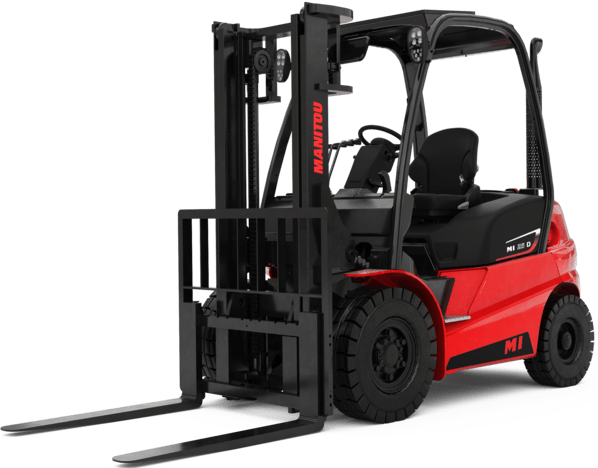
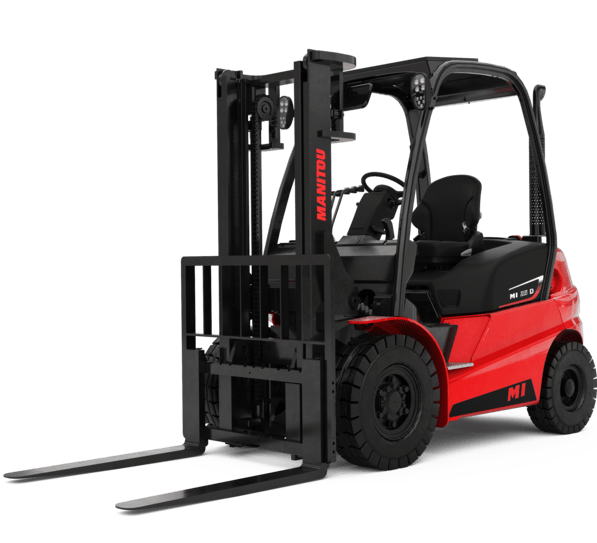
cards fix

Changed region(s): [[0.0, 0.0, 1.0, 1.0]]

diff --git a/src/Productos/productos.jsx b/src/Productos/productos.jsx
@@ -192,12 +192,12 @@ const Productos = () => {
             <StyledWrapper>
               <div className="card">
                 {/* Imágenes */}
-                <div className="w-full h-full">
+                <div className="w-full h-full flex flex-col items-center justify-center">
                   {imagenesPorMaquina[maquina.id]?.length > 0 ? (
                     <img
                       src={`/api/${imagenesPorMaquina[maquina.id][0]}`}
                       alt={`Imagen de ${maquina.modelo}`}
-                      className="h-full max-h-auto w-full"
+                      className="h-full max-h-[250px] max-w-[240px] p-2"
                     />
                   ) : (
                     <p className="text-gray-500 text-sm">
